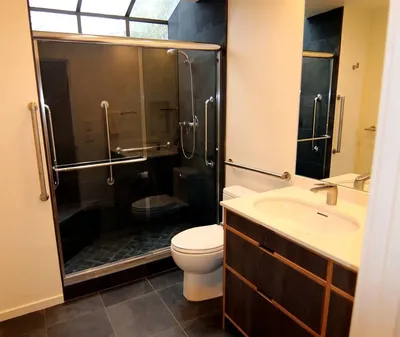
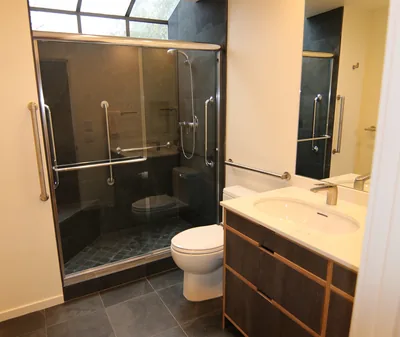
R05: show the skylight in the Bitter Lake shower window row
Craig: "There's no picture of the skylight." The row now uses a crop
of the guest bath photo (IMG_1195) with the skylight across the top,
anchored to the top edge so the cover-fit frame (1.2:1 to 2.5:1 across
breakpoints) trims from the bottom instead. The guest bathroom row
above it gets the same photo in its original, brighter colours.

diff --git a/src/our-work/index.html b/src/our-work/index.html
@@ -477,7 +477,7 @@
 <div class="btn-row"><a class="btn btn-primary" href="/start-project-review/">Start Project Review</a><a aria-label="View project photo gallery" class="btn btn-light gallery-cta" href="#gallery-exterior-whole-home-project">View Project Gallery</a></div>
 </div>
 <div class="featured-image"><img alt="Whole House Interior Remodel in Bitter Lake featured living room with skylights" decoding="async" loading="lazy" src="/assets/whole-house-interior-remodel-in-bitter-lake-featured-livin.webp" width="1200" height="953" srcset="/assets/whole-house-interior-remodel-in-bitter-lake-featured-livin-400w.webp 400w, /assets/whole-house-interior-remodel-in-bitter-lake-featured-livin-640w.webp 640w, /assets/whole-house-interior-remodel-in-bitter-lake-featured-livin-960w.webp 960w, /assets/whole-house-interior-remodel-in-bitter-lake-featured-livin.webp 1200w" sizes="(max-width: 1240px) 100vw, 1240px"/></div>
-</div><div class="container compact-project-story"><div class="compact-story-head"><p class="eyebrow">Project Details</p><p>Explore the connected living spaces, custom wood details, bathrooms, accessibility features, and entry improvements completed throughout the home.</p></div><div class="compact-story-wrap"><article class="compact-story-row"><figure class="compact-story-image"><img alt="Living room with skylights and hardwood flooring in the Bitter Lake interior remodel" decoding="async" loading="lazy" src="/assets/living-room-with-skylights-and-hardwood-flooring-in-the-bi.webp" width="950" height="754" srcset="/assets/living-room-with-skylights-and-hardwood-flooring-in-the-bi-400w.webp 400w, /assets/living-room-with-skylights-and-hardwood-flooring-in-the-bi-640w.webp 640w, /assets/living-room-with-skylights-and-hardwood-flooring-in-the-bi.webp 950w" sizes="(max-width: 700px) 100vw, (max-width: 1240px) 50vw, 600px"/></figure><div class="compact-story-copy"><p class="compact-story-eyebrow">Overall interior scope</p><h4>A broad interior remodel across most of the home</h4><p>The living room photos show the scale of the interior work with finished hardwood flooring, a long open room, recessed lighting, large windows, and two skylights.</p></div></article><article class="compact-story-row is-reverse"><figure class="compact-story-image"><img alt="Living room opening and interior hallway view in the Bitter Lake remodel" decoding="async" loading="lazy" src="/assets/living-room-opening-and-interior-hallway-view-in-the-bitte.webp" width="950" height="842" srcset="/assets/living-room-opening-and-interior-hallway-view-in-the-bitte-400w.webp 400w, /assets/living-room-opening-and-interior-hallway-view-in-the-bitte-640w.webp 640w, /assets/living-room-opening-and-interior-hallway-view-in-the-bitte.webp 950w" sizes="(max-width: 700px) 100vw, (max-width: 1240px) 50vw, 600px"/></figure><div class="compact-story-copy"><p class="compact-story-eyebrow">Main living area</p><h4>Skylights and clean finishes made the living room feel larger and brighter</h4><p>The living room became one of the project’s defining spaces. The skylights, clean wall planes, recessed lighting, and large glass openings made the room feel bright and open, while the hardwood flooring added warmth throughout the interior.</p><p>This part of the project shows the value of updating the whole interior environment. The goal was not only to remodel isolated features, but to make the home feel more complete and comfortable from room to room.</p></div></article><article class="compact-story-row"><figure class="compact-story-image"><img alt="Custom wood floor vent built into the hardwood floor" decoding="async" loading="lazy" src="/assets/custom-wood-floor-vent-built-into-the-hardwood-floor.webp" width="950" height="488" srcset="/assets/custom-wood-floor-vent-built-into-the-hardwood-floor-400w.webp 400w, /assets/custom-wood-floor-vent-built-into-the-hardwood-floor-640w.webp 640w, /assets/custom-wood-floor-vent-built-into-the-hardwood-floor.webp 950w" sizes="(max-width: 700px) 100vw, (max-width: 1240px) 50vw, 600px"/></figure><div class="compact-story-copy"><p class="compact-story-eyebrow">Custom wood detail</p><h4>A custom hardwood floor vent shows the level of finish work</h4><p>A custom wooden floor vent demonstrates the level of care carried into the finish work. Rather than using a standard metal vent, the vent was built into the hardwood so it reads as part of the finished floor.</p><p>This kind of small detail helps tell the larger craftsmanship story. It shows that the remodel included not only major rooms and fixtures, but also the finish-level decisions that make an interior feel intentionally built.</p></div></article><article class="compact-story-row is-reverse"><figure class="compact-story-image"><img alt="Guest bathroom with glass shower and vanity in the Bitter Lake remodel" decoding="async" loading="lazy" src="/assets/guest-bathroom-with-glass-shower-and-vanity-in-the-bitter.webp" width="950" height="800" srcset="/assets/guest-bathroom-with-glass-shower-and-vanity-in-the-bitter-400w.webp 400w, /assets/guest-bathroom-with-glass-shower-and-vanity-in-the-bitter-640w.webp 640w, /assets/guest-bathroom-with-glass-shower-and-vanity-in-the-bitter.webp 950w" sizes="(max-width: 700px) 100vw, (max-width: 1240px) 50vw, 600px"/></figure><div class="compact-story-copy"><p class="compact-story-eyebrow">Guest bathroom</p><h4>A three-quarter guest bath with shower and custom light detail</h4><p>The bathroom includes a glass shower, clean tile work, a vanity, and a custom window or skylight condition in the shower. That natural-light detail gives the compact bath a more special and finished feel.</p></div></article><article class="compact-story-row"><figure class="compact-story-image"><img alt="Glass shower and window/skylight detail in the Bitter Lake guest bathroom" decoding="async" loading="lazy" src="/assets/glass-shower-and-window-skylight-detail-in-the-bitter-lake.webp" width="950" height="1155" srcset="/assets/glass-shower-and-window-skylight-detail-in-the-bitter-lake-400w.webp 400w, /assets/glass-shower-and-window-skylight-detail-in-the-bitter-lake-640w.webp 640w, /assets/glass-shower-and-window-skylight-detail-in-the-bitter-lake.webp 950w" sizes="(max-width: 700px) 100vw, (max-width: 1240px) 50vw, 600px"/></figure><div class="compact-story-copy"><p class="compact-story-eyebrow">Shower window detail</p><h4>Custom shower windows and skylight-style openings became a key feature</h4><p>The shower window detail was important because it is unusual. The window and skylight condition brings light from above and makes the bathroom feel more open.</p><p>That detail is important because bathrooms can easily feel closed off. Here, the window and shower glass help bring in light while still keeping the room functional and private.</p></div></article><article class="compact-story-row is-reverse"><figure class="compact-story-image"><img alt="Primary bathroom double vanity with custom cabinetry and built-in medicine cabinets" decoding="async" loading="lazy" src="/assets/primary-bathroom-double-vanity-with-custom-cabinetry-and-b.webp" width="950" height="663" srcset="/assets/primary-bathroom-double-vanity-with-custom-cabinetry-and-b-400w.webp 400w, /assets/primary-bathroom-double-vanity-with-custom-cabinetry-and-b-640w.webp 640w, /assets/primary-bathroom-double-vanity-with-custom-cabinetry-and-b.webp 950w" sizes="(max-width: 700px) 100vw, (max-width: 1240px) 50vw, 600px"/></figure><div class="compact-story-copy"><p class="compact-story-eyebrow">Primary bathroom cabinetry</p><h4>Custom cabinets, double vanity, and built-in medicine cabinets</h4><p>The primary bathroom included custom cabinets, a double vanity, double sinks, and built-in medicine cabinets. The medicine cabinets were recessed into the wall instead of simply mounted on the surface, which gives the room a cleaner and more custom look.</p><p>Both bathrooms in this house used custom cabinetry. The primary bath photos show that detail clearly, especially in the cabinet layout, sink wall, mirror placement, and integrated storage.</p></div></article><article class="compact-story-row"><figure class="compact-story-image"><img alt="Primary shower with in-shower dryer, two shower heads, and accessible details" decoding="async" loading="lazy" src="/assets/primary-shower-with-in-shower-dryer-two-shower-heads-and-a.webp" width="950" height="604" srcset="/assets/primary-shower-with-in-shower-dryer-two-shower-heads-and-a-400w.webp 400w, /assets/primary-shower-with-in-shower-dryer-two-shower-heads-and-a-640w.webp 640w, /assets/primary-shower-with-in-shower-dryer-two-shower-heads-and-a.webp 950w" sizes="(max-width: 700px) 100vw, (max-width: 1240px) 50vw, 600px"/></figure><div class="compact-story-copy"><p class="compact-story-eyebrow">Accessible shower feature</p><h4>Two shower heads and an in-shower dryer supported accessibility</h4><p>One of the most unique details in the project was the in-shower drying system. The homeowner needed a way to dry off without using a towel, so the shower includes an integrated warm-air drying system.</p><p>The shower also included two shower heads and careful fixture placement. This is a strong example of adapting a bathroom around real personal needs while still keeping the finished space polished and custom.</p></div></article><article class="compact-story-row is-reverse"><figure class="compact-story-image"><img alt="New front door installed as part of the Bitter Lake remodel" decoding="async" loading="lazy" src="/assets/new-front-door-installed-as-part-of-the-bitter-lake-remode.webp" width="950" height="740" srcset="/assets/new-front-door-installed-as-part-of-the-bitter-lake-remode-400w.webp 400w, /assets/new-front-door-installed-as-part-of-the-bitter-lake-remode-640w.webp 640w, /assets/new-front-door-installed-as-part-of-the-bitter-lake-remode.webp 950w" sizes="(max-width: 700px) 100vw, (max-width: 1240px) 50vw, 600px"/></figure><div class="compact-story-copy"><p class="compact-story-eyebrow">Entry update</p><h4>A new front door completed the interior and entry story</h4><p>The new front door has a beautiful stain-grade finish. The natural wood adds warmth to the entry.</p></div></article></div></div></section>
+</div><div class="container compact-project-story"><div class="compact-story-head"><p class="eyebrow">Project Details</p><p>Explore the connected living spaces, custom wood details, bathrooms, accessibility features, and entry improvements completed throughout the home.</p></div><div class="compact-story-wrap"><article class="compact-story-row"><figure class="compact-story-image"><img alt="Living room with skylights and hardwood flooring in the Bitter Lake interior remodel" decoding="async" loading="lazy" src="/assets/living-room-with-skylights-and-hardwood-flooring-in-the-bi.webp" width="950" height="754" srcset="/assets/living-room-with-skylights-and-hardwood-flooring-in-the-bi-400w.webp 400w, /assets/living-room-with-skylights-and-hardwood-flooring-in-the-bi-640w.webp 640w, /assets/living-room-with-skylights-and-hardwood-flooring-in-the-bi.webp 950w" sizes="(max-width: 700px) 100vw, (max-width: 1240px) 50vw, 600px"/></figure><div class="compact-story-copy"><p class="compact-story-eyebrow">Overall interior scope</p><h4>A broad interior remodel across most of the home</h4><p>The living room photos show the scale of the interior work with finished hardwood flooring, a long open room, recessed lighting, large windows, and two skylights.</p></div></article><article class="compact-story-row is-reverse"><figure class="compact-story-image"><img alt="Living room opening and interior hallway view in the Bitter Lake remodel" decoding="async" loading="lazy" src="/assets/living-room-opening-and-interior-hallway-view-in-the-bitte.webp" width="950" height="842" srcset="/assets/living-room-opening-and-interior-hallway-view-in-the-bitte-400w.webp 400w, /assets/living-room-opening-and-interior-hallway-view-in-the-bitte-640w.webp 640w, /assets/living-room-opening-and-interior-hallway-view-in-the-bitte.webp 950w" sizes="(max-width: 700px) 100vw, (max-width: 1240px) 50vw, 600px"/></figure><div class="compact-story-copy"><p class="compact-story-eyebrow">Main living area</p><h4>Skylights and clean finishes made the living room feel larger and brighter</h4><p>The living room became one of the project’s defining spaces. The skylights, clean wall planes, recessed lighting, and large glass openings made the room feel bright and open, while the hardwood flooring added warmth throughout the interior.</p><p>This part of the project shows the value of updating the whole interior environment. The goal was not only to remodel isolated features, but to make the home feel more complete and comfortable from room to room.</p></div></article><article class="compact-story-row"><figure class="compact-story-image"><img alt="Custom wood floor vent built into the hardwood floor" decoding="async" loading="lazy" src="/assets/custom-wood-floor-vent-built-into-the-hardwood-floor.webp" width="950" height="488" srcset="/assets/custom-wood-floor-vent-built-into-the-hardwood-floor-400w.webp 400w, /assets/custom-wood-floor-vent-built-into-the-hardwood-floor-640w.webp 640w, /assets/custom-wood-floor-vent-built-into-the-hardwood-floor.webp 950w" sizes="(max-width: 700px) 100vw, (max-width: 1240px) 50vw, 600px"/></figure><div class="compact-story-copy"><p class="compact-story-eyebrow">Custom wood detail</p><h4>A custom hardwood floor vent shows the level of finish work</h4><p>A custom wooden floor vent demonstrates the level of care carried into the finish work. Rather than using a standard metal vent, the vent was built into the hardwood so it reads as part of the finished floor.</p><p>This kind of small detail helps tell the larger craftsmanship story. It shows that the remodel included not only major rooms and fixtures, but also the finish-level decisions that make an interior feel intentionally built.</p></div></article><article class="compact-story-row is-reverse"><figure class="compact-story-image"><img alt="Guest bathroom with glass shower and vanity in the Bitter Lake remodel" decoding="async" loading="lazy" src="/assets/guest-bathroom-with-glass-shower-and-vanity-in-the-bitter.webp" width="950" height="800" srcset="/assets/guest-bathroom-with-glass-shower-and-vanity-in-the-bitter-400w.webp 400w, /assets/guest-bathroom-with-glass-shower-and-vanity-in-the-bitter-640w.webp 640w, /assets/guest-bathroom-with-glass-shower-and-vanity-in-the-bitter.webp 950w" sizes="(max-width: 700px) 100vw, (max-width: 1240px) 50vw, 600px"/></figure><div class="compact-story-copy"><p class="compact-story-eyebrow">Guest bathroom</p><h4>A three-quarter guest bath with shower and custom light detail</h4><p>The bathroom includes a glass shower, clean tile work, a vanity, and a custom window or skylight condition in the shower. That natural-light detail gives the compact bath a more special and finished feel.</p></div></article><article class="compact-story-row"><figure class="compact-story-image"><img alt="Skylight above the glass shower in the Bitter Lake guest bathroom" class="img-anchor-top" decoding="async" loading="lazy" src="/assets/skylight-above-the-guest-shower-in-the-bitter-lake-remodel.webp" width="950" height="786" srcset="/assets/skylight-above-the-guest-shower-in-the-bitter-lake-remodel-400w.webp 400w, /assets/skylight-above-the-guest-shower-in-the-bitter-lake-remodel-640w.webp 640w, /assets/skylight-above-the-guest-shower-in-the-bitter-lake-remodel.webp 950w" sizes="(max-width: 700px) 100vw, (max-width: 1240px) 50vw, 600px"/></figure><div class="compact-story-copy"><p class="compact-story-eyebrow">Shower window detail</p><h4>Custom shower windows and skylight-style openings became a key feature</h4><p>The shower window detail was important because it is unusual. The window and skylight condition brings light from above and makes the bathroom feel more open.</p><p>That detail is important because bathrooms can easily feel closed off. Here, the window and shower glass help bring in light while still keeping the room functional and private.</p></div></article><article class="compact-story-row is-reverse"><figure class="compact-story-image"><img alt="Primary bathroom double vanity with custom cabinetry and built-in medicine cabinets" decoding="async" loading="lazy" src="/assets/primary-bathroom-double-vanity-with-custom-cabinetry-and-b.webp" width="950" height="663" srcset="/assets/primary-bathroom-double-vanity-with-custom-cabinetry-and-b-400w.webp 400w, /assets/primary-bathroom-double-vanity-with-custom-cabinetry-and-b-640w.webp 640w, /assets/primary-bathroom-double-vanity-with-custom-cabinetry-and-b.webp 950w" sizes="(max-width: 700px) 100vw, (max-width: 1240px) 50vw, 600px"/></figure><div class="compact-story-copy"><p class="compact-story-eyebrow">Primary bathroom cabinetry</p><h4>Custom cabinets, double vanity, and built-in medicine cabinets</h4><p>The primary bathroom included custom cabinets, a double vanity, double sinks, and built-in medicine cabinets. The medicine cabinets were recessed into the wall instead of simply mounted on the surface, which gives the room a cleaner and more custom look.</p><p>Both bathrooms in this house used custom cabinetry. The primary bath photos show that detail clearly, especially in the cabinet layout, sink wall, mirror placement, and integrated storage.</p></div></article><article class="compact-story-row"><figure class="compact-story-image"><img alt="Primary shower with in-shower dryer, two shower heads, and accessible details" decoding="async" loading="lazy" src="/assets/primary-shower-with-in-shower-dryer-two-shower-heads-and-a.webp" width="950" height="604" srcset="/assets/primary-shower-with-in-shower-dryer-two-shower-heads-and-a-400w.webp 400w, /assets/primary-shower-with-in-shower-dryer-two-shower-heads-and-a-640w.webp 640w, /assets/primary-shower-with-in-shower-dryer-two-shower-heads-and-a.webp 950w" sizes="(max-width: 700px) 100vw, (max-width: 1240px) 50vw, 600px"/></figure><div class="compact-story-copy"><p class="compact-story-eyebrow">Accessible shower feature</p><h4>Two shower heads and an in-shower dryer supported accessibility</h4><p>One of the most unique details in the project was the in-shower drying system. The homeowner needed a way to dry off without using a towel, so the shower includes an integrated warm-air drying system.</p><p>The shower also included two shower heads and careful fixture placement. This is a strong example of adapting a bathroom around real personal needs while still keeping the finished space polished and custom.</p></div></article><article class="compact-story-row is-reverse"><figure class="compact-story-image"><img alt="New front door installed as part of the Bitter Lake remodel" decoding="async" loading="lazy" src="/assets/new-front-door-installed-as-part-of-the-bitter-lake-remode.webp" width="950" height="740" srcset="/assets/new-front-door-installed-as-part-of-the-bitter-lake-remode-400w.webp 400w, /assets/new-front-door-installed-as-part-of-the-bitter-lake-remode-640w.webp 640w, /assets/new-front-door-installed-as-part-of-the-bitter-lake-remode.webp 950w" sizes="(max-width: 700px) 100vw, (max-width: 1240px) 50vw, 600px"/></figure><div class="compact-story-copy"><p class="compact-story-eyebrow">Entry update</p><h4>A new front door completed the interior and entry story</h4><p>The new front door has a beautiful stain-grade finish. The natural wood adds warmth to the entry.</p></div></article></div></div></section>
 <section class="section-pad gallery-section" data-portfolio-title="Whole House Interior Remodel in Bitter Lake Gallery" data-portfolio-view="exterior-whole-home-project" id="gallery-exterior-whole-home-project"><div class="container"><div class="section-head"><div><p class="eyebrow">Project Gallery</p><h2>Whole House Interior Remodel in Bitter Lake</h2></div><p>Selected photos from the Scott Kraft Bitter Lake project, including the living room, custom floor vent, guest bathroom, primary bathroom, accessibility-focused shower features, and new front door.</p></div><div class="gallery-grid"><figure class="gallery-item wide"><img alt="Whole House Interior Remodel in Bitter Lake gallery photo 1" decoding="async" loading="lazy" src="/assets/whole-house-interior-remodel-in-bitter-lake-gallery-photo.webp" width="900" height="714" srcset="/assets/whole-house-interior-remodel-in-bitter-lake-gallery-photo-400w.webp 400w, /assets/whole-house-interior-remodel-in-bitter-lake-gallery-photo-640w.webp 640w, /assets/whole-house-interior-remodel-in-bitter-lake-gallery-photo.webp 900w" sizes="(max-width: 700px) 100vw, (max-width: 1100px) 50vw, 820px"/></figure><figure class="gallery-item"><img alt="Whole House Interior Remodel in Bitter Lake gallery photo 2" decoding="async" loading="lazy" src="/assets/whole-house-interior-remodel-in-bitter-lake-gallery-photo-2.webp" width="900" height="798" srcset="/assets/whole-house-interior-remodel-in-bitter-lake-gallery-photo-2-400w.webp 400w, /assets/whole-house-interior-remodel-in-bitter-lake-gallery-photo-2-640w.webp 640w, /assets/whole-house-interior-remodel-in-bitter-lake-gallery-photo-2.webp 900w" sizes="(max-width: 700px) 100vw, (max-width: 1100px) 50vw, 410px"/></figure><figure class="gallery-item"><img alt="Whole House Interior Remodel in Bitter Lake gallery photo 3" decoding="async" loading="lazy" src="/assets/whole-house-interior-remodel-in-bitter-lake-gallery-photo-3.webp" width="900" height="462" srcset="/assets/whole-house-interior-remodel-in-bitter-lake-gallery-photo-3-400w.webp 400w, /assets/whole-house-interior-remodel-in-bitter-lake-gallery-photo-3-640w.webp 640w, /assets/whole-house-interior-remodel-in-bitter-lake-gallery-photo-3.webp 900w" sizes="(max-width: 700px) 100vw, (max-width: 1100px) 50vw, 410px"/></figure><figure class="gallery-item wide"><img alt="Whole House Interior Remodel in Bitter Lake gallery photo 4" decoding="async" loading="lazy" src="/assets/whole-house-interior-remodel-in-bitter-lake-gallery-photo-4.webp" width="900" height="758" srcset="/assets/whole-house-interior-remodel-in-bitter-lake-gallery-photo-4-400w.webp 400w, /assets/whole-house-interior-remodel-in-bitter-lake-gallery-photo-4-640w.webp 640w, /assets/whole-house-interior-remodel-in-bitter-lake-gallery-photo-4.webp 900w" sizes="(max-width: 700px) 100vw, (max-width: 1100px) 50vw, 820px"/></figure><figure class="gallery-item"><img alt="Whole House Interior Remodel in Bitter Lake gallery photo 5" decoding="async" loading="lazy" src="/assets/whole-house-interior-remodel-in-bitter-lake-gallery-photo-5.webp" width="900" height="1094" srcset="/assets/whole-house-interior-remodel-in-bitter-lake-gallery-photo-5-400w.webp 400w, /assets/whole-house-interior-remodel-in-bitter-lake-gallery-photo-5-640w.webp 640w, /assets/whole-house-interior-remodel-in-bitter-lake-gallery-photo-5.webp 900w" sizes="(max-width: 700px) 100vw, (max-width: 1100px) 50vw, 410px"/></figure><figure class="gallery-item wide"><img alt="Whole House Interior Remodel in Bitter Lake gallery photo 6" decoding="async" loading="lazy" src="/assets/whole-house-interior-remodel-in-bitter-lake-gallery-photo-6.webp" width="900" height="629" srcset="/assets/whole-house-interior-remodel-in-bitter-lake-gallery-photo-6-400w.webp 400w, /assets/whole-house-interior-remodel-in-bitter-lake-gallery-photo-6-640w.webp 640w, /assets/whole-house-interior-remodel-in-bitter-lake-gallery-photo-6.webp 900w" sizes="(max-width: 700px) 100vw, (max-width: 1100px) 50vw, 820px"/></figure><figure class="gallery-item"><img alt="Whole House Interior Remodel in Bitter Lake gallery photo 7" decoding="async" loading="lazy" src="/assets/whole-house-interior-remodel-in-bitter-lake-gallery-photo-7.webp" width="900" height="631" srcset="/assets/whole-house-interior-remodel-in-bitter-lake-gallery-photo-7-400w.webp 400w, /assets/whole-house-interior-remodel-in-bitter-lake-gallery-photo-7-640w.webp 640w, /assets/whole-house-interior-remodel-in-bitter-lake-gallery-photo-7.webp 900w" sizes="(max-width: 700px) 100vw, (max-width: 1100px) 50vw, 410px"/></figure><figure class="gallery-item"><img alt="Whole House Interior Remodel in Bitter Lake gallery photo 8" decoding="async" loading="lazy" src="/assets/whole-house-interior-remodel-in-bitter-lake-gallery-photo-8.webp" width="900" height="703" srcset="/assets/whole-house-interior-remodel-in-bitter-lake-gallery-photo-8-400w.webp 400w, /assets/whole-house-interior-remodel-in-bitter-lake-gallery-photo-8-640w.webp 640w, /assets/whole-house-interior-remodel-in-bitter-lake-gallery-photo-8.webp 900w" sizes="(max-width: 700px) 100vw, (max-width: 1100px) 50vw, 410px"/></figure><figure class="gallery-item"><img alt="Whole House Interior Remodel in Bitter Lake gallery photo 9" decoding="async" loading="lazy" src="/assets/whole-house-interior-remodel-in-bitter-lake-gallery-photo-9.webp" width="900" height="626" srcset="/assets/whole-house-interior-remodel-in-bitter-lake-gallery-photo-9-400w.webp 400w, /assets/whole-house-interior-remodel-in-bitter-lake-gallery-photo-9-640w.webp 640w, /assets/whole-house-interior-remodel-in-bitter-lake-gallery-photo-9.webp 900w" sizes="(max-width: 700px) 100vw, (max-width: 1100px) 50vw, 410px"/></figure><figure class="gallery-item"><img alt="Whole House Interior Remodel in Bitter Lake gallery photo 10" decoding="async" loading="lazy" src="/assets/whole-house-interior-remodel-in-bitter-lake-gallery-photo-10.webp" width="900" height="725" srcset="/assets/whole-house-interior-remodel-in-bitter-lake-gallery-photo-10-400w.webp 400w, /assets/whole-house-interior-remodel-in-bitter-lake-gallery-photo-10-640w.webp 640w, /assets/whole-house-interior-remodel-in-bitter-lake-gallery-photo-10.webp 900w" sizes="(max-width: 700px) 100vw, (max-width: 1100px) 50vw, 410px"/></figure><figure class="gallery-item wide"><img alt="Whole House Interior Remodel in Bitter Lake gallery photo 11" decoding="async" loading="lazy" src="/assets/whole-house-interior-remodel-in-bitter-lake-gallery-photo-11.webp" width="900" height="572" srcset="/assets/whole-house-interior-remodel-in-bitter-lake-gallery-photo-11-400w.webp 400w, /assets/whole-house-interior-remodel-in-bitter-lake-gallery-photo-11-640w.webp 640w, /assets/whole-house-interior-remodel-in-bitter-lake-gallery-photo-11.webp 900w" sizes="(max-width: 700px) 100vw, (max-width: 1100px) 50vw, 820px"/></figure><figure class="gallery-item"><img alt="Whole House Interior Remodel in Bitter Lake gallery photo 12" decoding="async" loading="lazy" src="/assets/whole-house-interior-remodel-in-bitter-lake-gallery-photo-12.webp" width="900" height="698" srcset="/assets/whole-house-interior-remodel-in-bitter-lake-gallery-photo-12-400w.webp 400w, /assets/whole-house-interior-remodel-in-bitter-lake-gallery-photo-12-640w.webp 640w, /assets/whole-house-interior-remodel-in-bitter-lake-gallery-photo-12.webp 900w" sizes="(max-width: 700px) 100vw, (max-width: 1100px) 50vw, 410px"/></figure><figure class="gallery-item"><img alt="Whole House Interior Remodel in Bitter Lake gallery photo 13" decoding="async" loading="lazy" src="/assets/whole-house-interior-remodel-in-bitter-lake-gallery-photo-13.webp" width="900" height="670" srcset="/assets/whole-house-interior-remodel-in-bitter-lake-gallery-photo-13-400w.webp 400w, /assets/whole-house-interior-remodel-in-bitter-lake-gallery-photo-13-640w.webp 640w, /assets/whole-house-interior-remodel-in-bitter-lake-gallery-photo-13.webp 900w" sizes="(max-width: 700px) 100vw, (max-width: 1100px) 50vw, 410px"/></figure><figure class="gallery-item wide"><img alt="Whole House Interior Remodel in Bitter Lake gallery photo 14" decoding="async" loading="lazy" src="/assets/whole-house-interior-remodel-in-bitter-lake-gallery-photo-14.webp" width="900" height="701" srcset="/assets/whole-house-interior-remodel-in-bitter-lake-gallery-photo-14-400w.webp 400w, /assets/whole-house-interior-remodel-in-bitter-lake-gallery-photo-14-640w.webp 640w, /assets/whole-house-interior-remodel-in-bitter-lake-gallery-photo-14.webp 900w" sizes="(max-width: 700px) 100vw, (max-width: 1100px) 50vw, 820px"/></figure></div></div></section>
 <section aria-labelledby="bathroom-construction-finish-project-title" class="section-pad project-detail-section" data-portfolio-title="Accessible Shower Bathroom Remodel in Seattle" data-portfolio-view="bathroom-construction-finish-project" id="bathroom-construction-finish-project">
 <div class="container featured-grid">

diff --git a/src/css/our-work.css b/src/css/our-work.css
@@ -1124,6 +1124,11 @@ body.portfolio-page .compact-story-image img {
   object-fit: cover !important;
   object-position: center !important;
 }
+/* For photos whose subject sits at the top edge (e.g. a skylight): the frame's
+   shape varies from 1.2:1 to 2.5:1, so trim from the bottom instead of both ends. */
+body.portfolio-page .compact-story-image img.img-anchor-top {
+  object-position: 50% 0 !important;
+}
 body.portfolio-page .compact-story-copy {
   max-width: 650px !important;
 }
